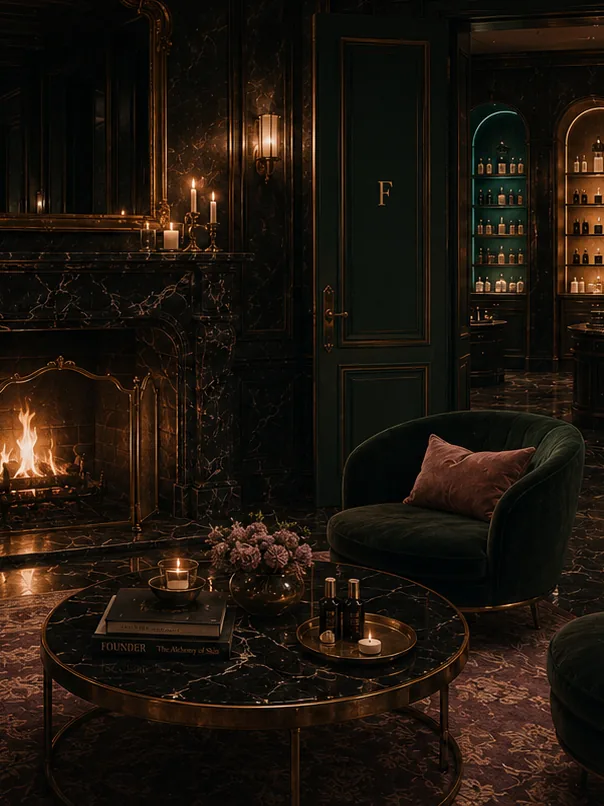
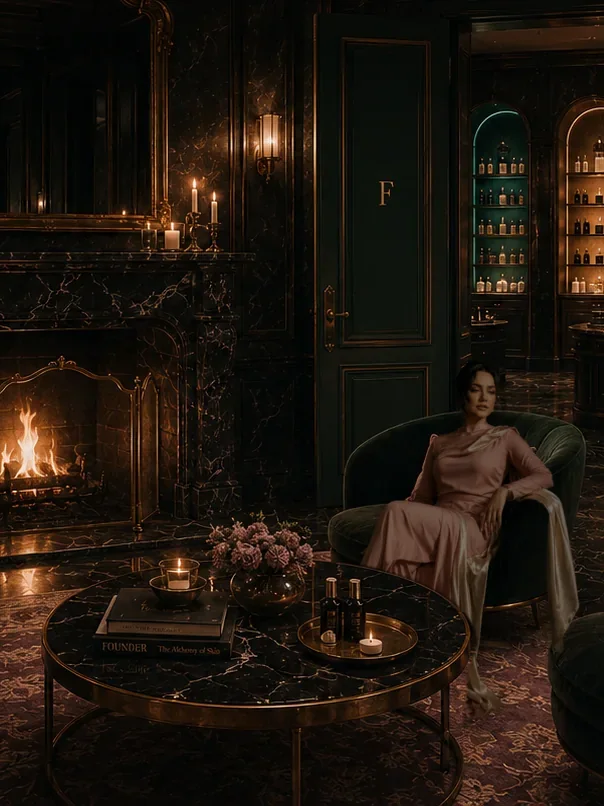
Room 02: she is in the chair by the fire
The lounge hero now has a woman seated in the green velvet chair — the
portrait Shelby supplied, cut and lit from the fireplace side, her legs
behind the coffee table. Desktop and phone frames both updated; alt text
follows.

Claude-Session: https://claude.ai/code/session_01Ur261Wsau2RympRHJCG9oK

diff --git a/src/lib/rooms.ts b/src/lib/rooms.ts
@@ -62,7 +62,7 @@ export const ROOMS: Room[] = [
     pathname: "/",
     hero: {
       src: "/editorial/rooms/inside-founder-lounge.webp",
-      alt: "The FOUNDER sitting room: a green velvet sofa by a marble fireplace, a cream blazer over its arm, and through the open emerald doors the lit serum shelves in teal, gold and red.",
+      alt: "The FOUNDER sitting room: a woman in a rose silk gown sits in a green velvet chair by the marble fireplace, a cream blazer over the sofa arm, and through the open emerald doors the lit serum shelves in teal, gold and red.",
       position: "64% center",
     },
     heroMobile: { src: "/editorial/rooms/inside-founder-lounge-m.webp" },
